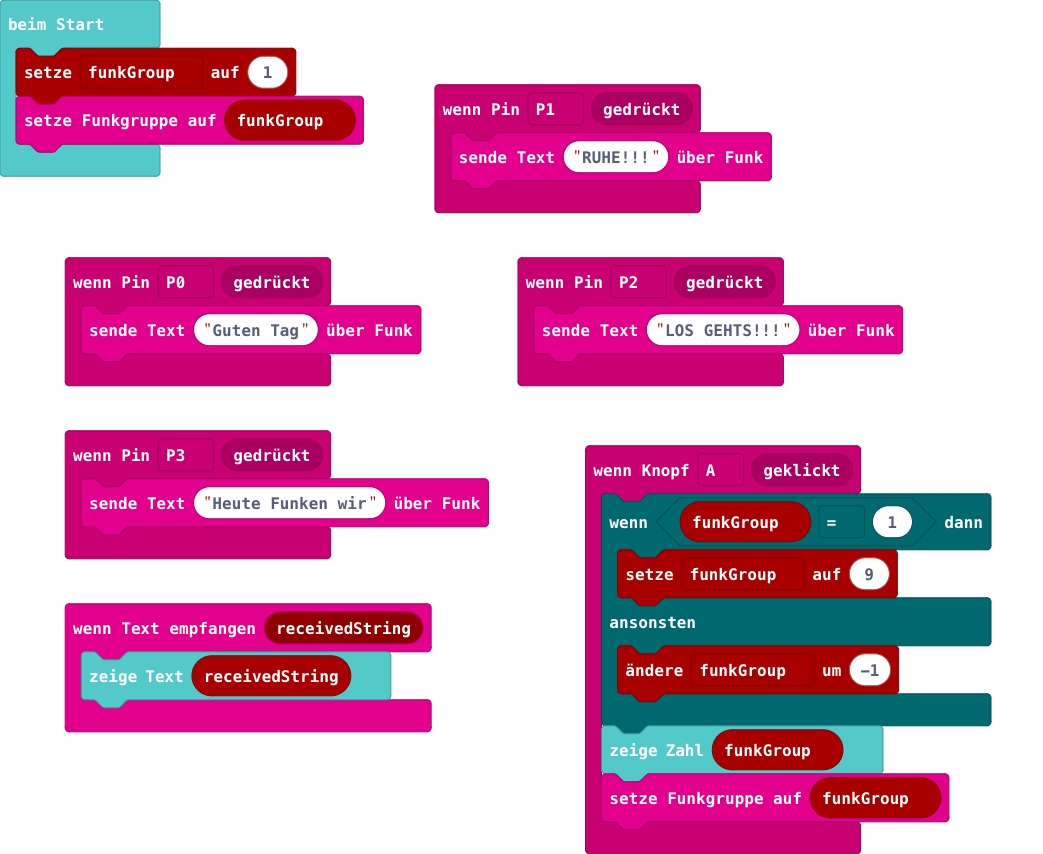
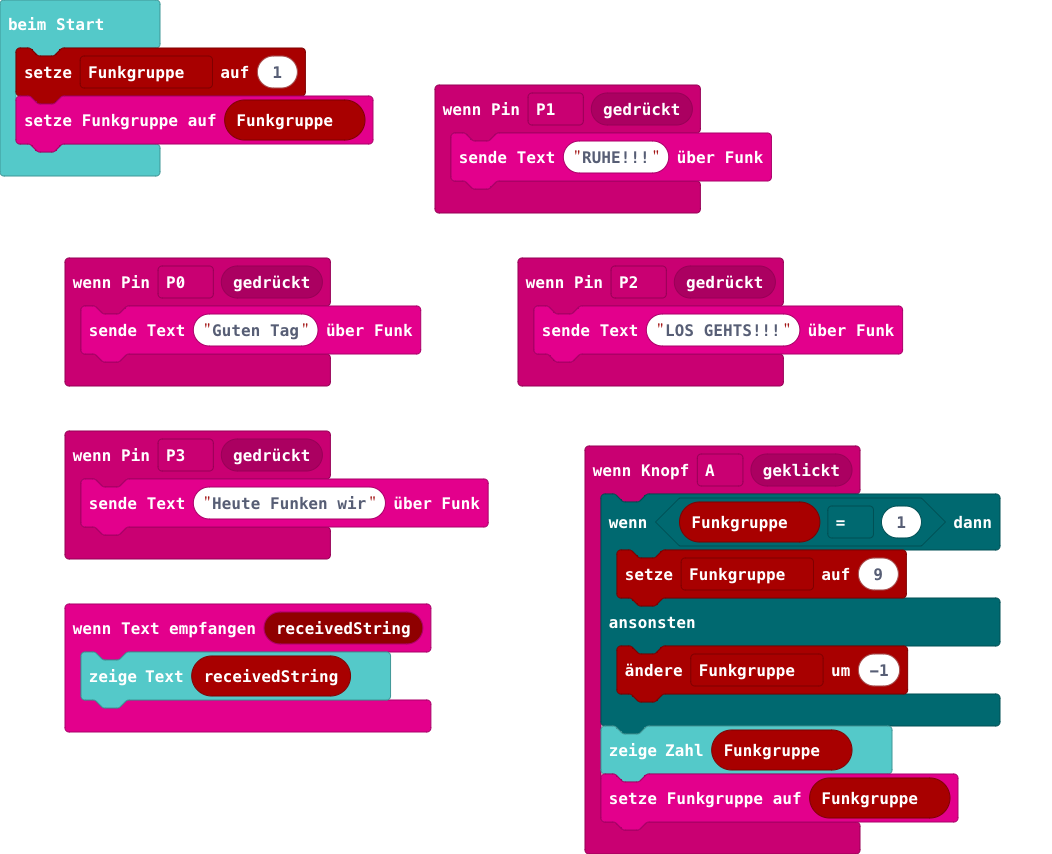
Aktualisiere main.blocks, main.ts

diff --git a/main.ts b/main.ts
@@ -2,13 +2,13 @@ input.onPinTouchEvent(TouchPin.P1, input.buttonEventDown(), function () {
     radio.sendString("RUHE!!!")
 })
 input.onButtonEvent(Button.A, input.buttonEventClick(), function () {
-    if (funkGroup == 1) {
-        funkGroup = 9
+    if (Funkgruppe == 1) {
+        Funkgruppe = 9
     } else {
-        funkGroup += -1
+        Funkgruppe += -1
     }
-    basic.showNumber(funkGroup)
-    radio.setGroup(funkGroup)
+    basic.showNumber(Funkgruppe)
+    radio.setGroup(Funkgruppe)
 })
 radio.onReceivedString(function (receivedString) {
     basic.showString(receivedString)
@@ -22,6 +22,6 @@ input.onPinTouchEvent(TouchPin.P2, input.buttonEventDown(), function () {
 input.onPinTouchEvent(TouchPin.P3, input.buttonEventDown(), function () {
     radio.sendString("Heute Funken wir")
 })
-let funkGroup = 0
-funkGroup = 1
-radio.setGroup(funkGroup)
+let Funkgruppe = 0
+Funkgruppe = 1
+radio.setGroup(Funkgruppe)
